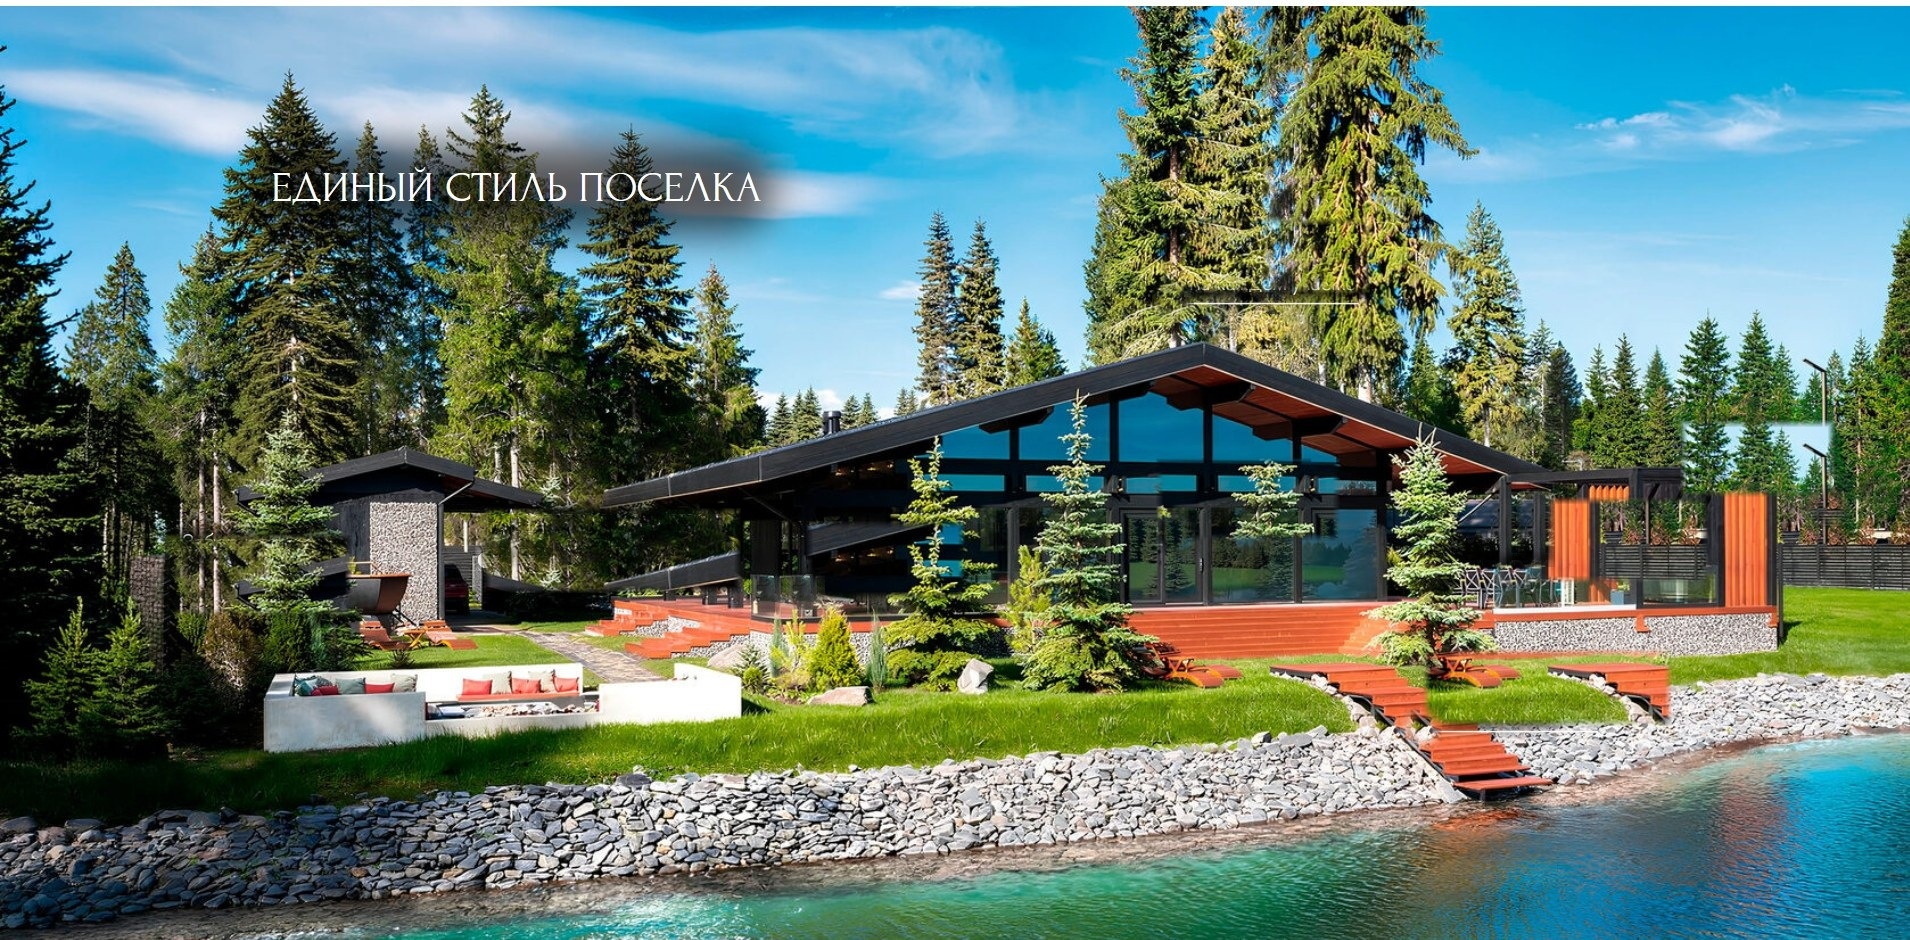
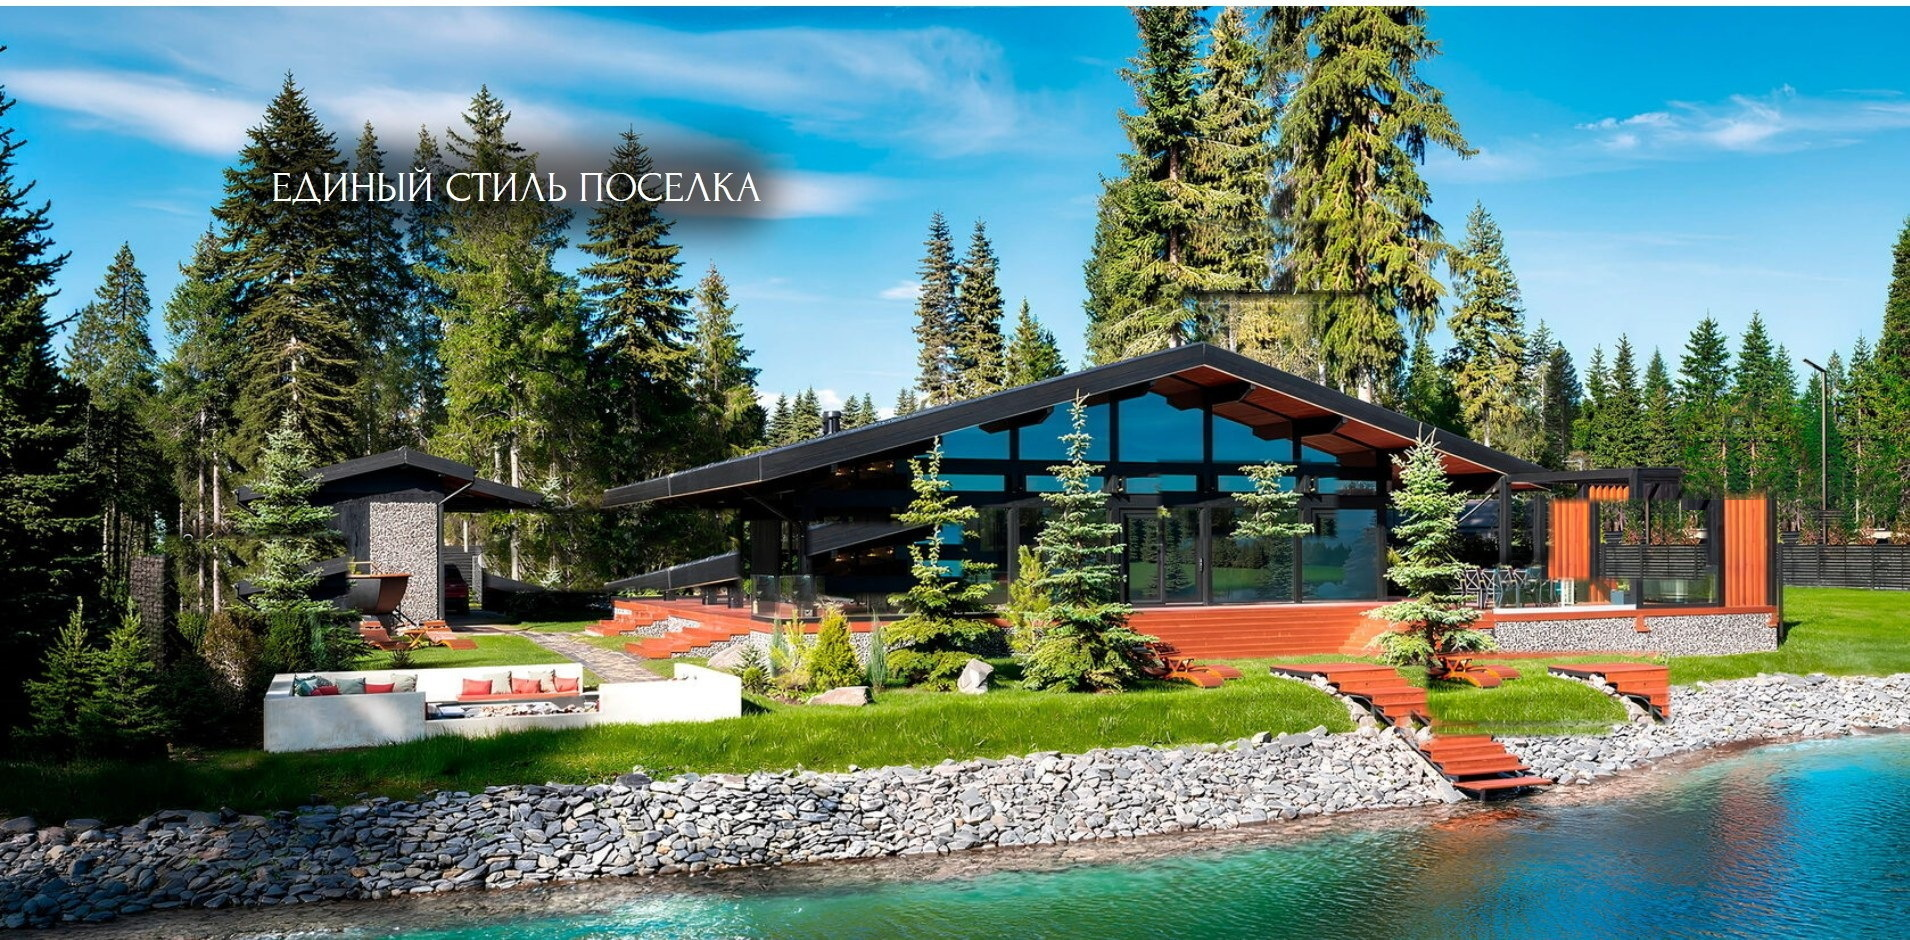
Кнопки как в референсе: точка+линия+текст, квадратные попапы с рамкой; зачистка фото

diff --git a/index.html b/index.html
@@ -141,30 +141,43 @@
         color: #ffffff;
         text-shadow: 0 2px 18px rgba(0,0,0,0.45);
       }
-      .tag {
+      /* Кнопка-метка как в черновике: точка + линия + белый текст (left/top = центр точки) */
+      .co {
         position: absolute;
         cursor: pointer;
-        display: flex;
-        align-items: center;
-        justify-content: flex-start;
-        min-height: 64px;
-        background: rgba(10,10,10,0.55);
-        border-radius: 4px;
-        padding: 9px 14px;
-        color: #ffffff;
-        font-size: 15px;
-        line-height: 1.35;
-        box-sizing: border-box;
       }
+      .co .dot {
+        position: absolute;
+        left: -6px; top: -6px;
+        width: 12px; height: 12px;
+        border-radius: 50%;
+        background: #ffffff;
+        box-shadow: 0 1px 6px rgba(0,0,0,0.35);
+      }
+      .co .txt {
+        position: absolute;
+        left: 7px; bottom: -1px;
+        width: max-content;
+        padding-bottom: 10px;
+        border-bottom: 1px solid rgba(255,255,255,0.85);
+        color: #ffffff;
+        font-size: 20px;
+        font-weight: 300;
+        line-height: 1.18;
+        letter-spacing: 0.01em;
+        text-shadow: 0 1px 10px rgba(0,0,0,0.45);
+      }
+      .co.co-r .txt { left: auto; right: 7px; }
       .pop {
         position: absolute;
-        bottom: calc(100% + 14px);
+        bottom: 96px;
         left: 0;
         width: 300px;
-        height: 200px;
-        border-radius: 8px;
+        height: 300px;
+        border-radius: 16px;
+        border: 3px solid #ffffff;
         overflow: hidden;
-        box-shadow: 0 14px 34px rgba(0,0,0,0.4);
+        box-shadow: 0 18px 44px rgba(0,0,0,0.45);
         opacity: 0;
         visibility: hidden;
         transform: translateY(6px);
@@ -172,12 +185,14 @@
         pointer-events: none;
       }
       .pop img { width: 100%; height: 100%; object-fit: cover; display: block; }
-      .tag:hover .pop, .tag.is-open .pop {
+      .co:hover .pop, .co.is-open .pop {
         opacity: 1;
         visibility: visible;
         transform: none;
       }
       .pop.pop-r { left: auto; right: 0; }
+      .pop.pop-b { bottom: auto; top: 16px; transform: translateY(-6px); }
+      .co:hover .pop.pop-b, .co.is-open .pop.pop-b { transform: none; }
       @media (prefers-reduced-motion: reduce) {
         .pop { transition: none; transform: none; }
       }
@@ -295,14 +310,14 @@
     <section style="padding: 20px 0;">
       <div class="unified">
         <img class="ph" src="./img/mid_existing.jpg" alt="" />
-        <div class="tag" data-tag="zabor" style="left: 164px; top: 537px; width: 190px; height: 82px;">Забор в едином стиле поселка<span class="pop"><img src="./img/pop_zabor.jpg" alt="" /></span></div>
-        <div class="tag" data-tag="domovlad" style="left: 487px; top: 511px; width: 258px; height: 85px;">Домовладение — это продолжение участка<span class="pop"><img src="./img/pop_domovlad.jpg" alt="" /></span></div>
-        <div class="tag" data-tag="materialy" style="left: 810px; top: 524px; width: 160px; height: 78px;">Природные материалы<span class="pop"><img src="./img/pop_materialy.jpg" alt="" /></span></div>
-        <div class="tag" data-tag="okna" style="left: 1162px; top: 460px; width: 185px; height: 84px;">Панорамные окна в пол<span class="pop"><img src="./img/pop_okna.jpg" alt="" /></span></div>
-        <div class="tag" data-tag="eli" style="left: 1166px; top: 219px; width: 211px; height: 78px;">Вековые ели на каждом участке<span class="pop"><img src="./img/pop_eli.jpg" alt="" /></span></div>
-        <div class="tag" data-tag="cveta" style="left: 1543px; top: 500px; width: 174px; height: 86px;">Натуральные цвета отделки<span class="pop"><img src="./img/pop_cveta.jpg" alt="" /></span></div>
-        <div class="tag" data-tag="osvesh" style="left: 1689px; top: 422px; width: 156px; height: 78px;">Стильное освещение<span class="pop pop-r"><img src="./img/pop_osvesh.jpg" alt="" /></span></div>
-        <div class="tag" data-tag="akvat" style="left: 1431px; top: 652px; width: 250px; height: 78px;">Участки с личной акваторией<span class="pop"><img src="./img/pop_akvat.jpg" alt="" /></span></div>
+        <div class="co" data-tag="zabor" style="left: 162px; top: 586px;"><span class="dot"></span><div class="txt">Забор в едином<br />стиле поселка</div><span class="pop"><img src="./img/pop_zabor.jpg" alt="" /></span></div>
+        <div class="co" data-tag="domovlad" style="left: 486px; top: 562px;"><span class="dot"></span><div class="txt">Домовладение — это<br />продолжение участка</div><span class="pop"><img src="./img/pop_domovlad.jpg" alt="" /></span></div>
+        <div class="co" data-tag="materialy" style="left: 810px; top: 584px;"><span class="dot"></span><div class="txt">Природные<br />материалы</div><span class="pop"><img src="./img/pop_materialy.jpg" alt="" /></span></div>
+        <div class="co" data-tag="okna" style="left: 1176px; top: 527px;"><span class="dot"></span><div class="txt">Панорамные<br />окна в пол</div><span class="pop"><img src="./img/pop_okna.jpg" alt="" /></span></div>
+        <div class="co" data-tag="eli" style="left: 1176px; top: 305px;"><span class="dot"></span><div class="txt">Вековые ели<br />на каждом участке</div><span class="pop pop-b"><img src="./img/pop_eli.jpg" alt="" /></span></div>
+        <div class="co" data-tag="cveta" style="left: 1523px; top: 572px;"><span class="dot"></span><div class="txt">Натуральные<br />цвета отделки</div><span class="pop"><img src="./img/pop_cveta.jpg" alt="" /></span></div>
+        <div class="co co-r" data-tag="osvesh" style="left: 1833px; top: 484px;"><span class="dot"></span><div class="txt">Стильное<br />освещение</div><span class="pop pop-r"><img src="./img/pop_osvesh.jpg" alt="" /></span></div>
+        <div class="co" data-tag="akvat" style="left: 1434px; top: 735px;"><span class="dot"></span><div class="txt">Участки с личной<br />акваторией</div><span class="pop"><img src="./img/pop_akvat.jpg" alt="" /></span></div>
       </div>
     </section>
 